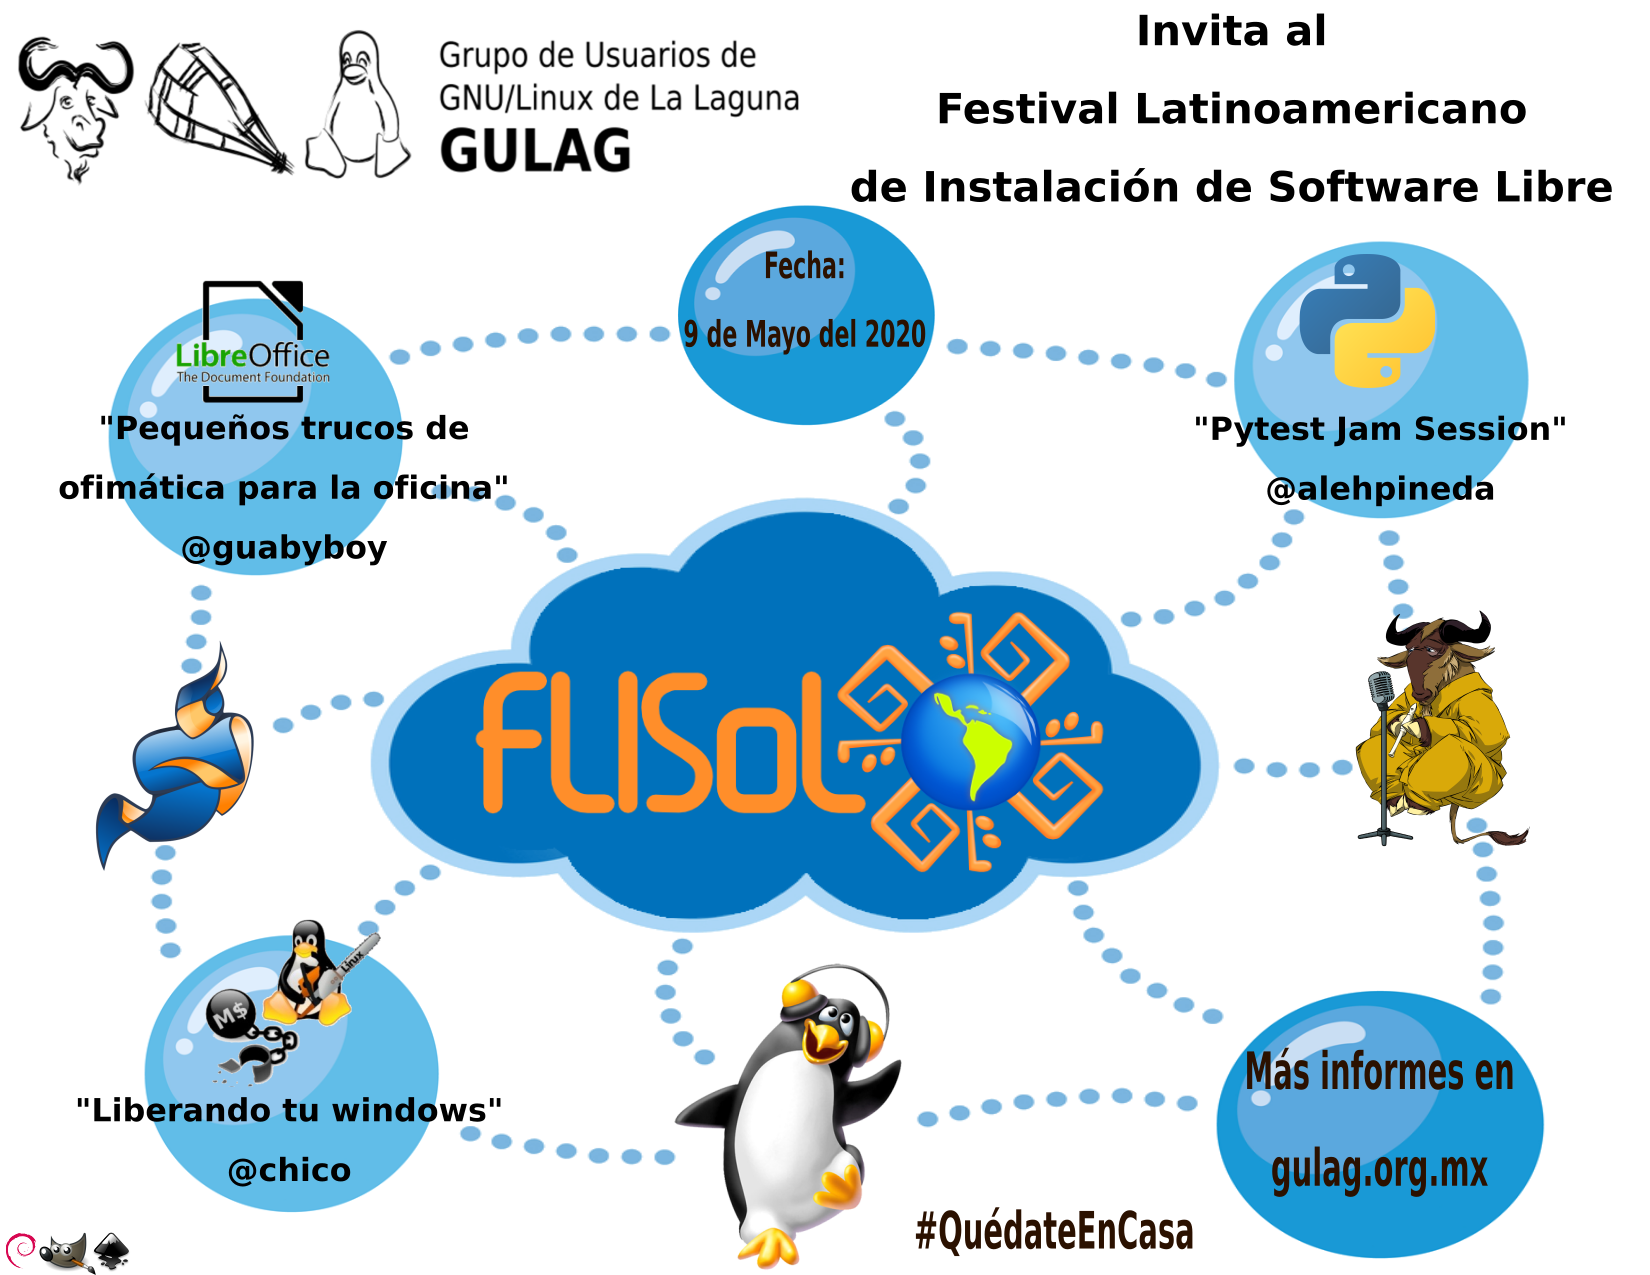
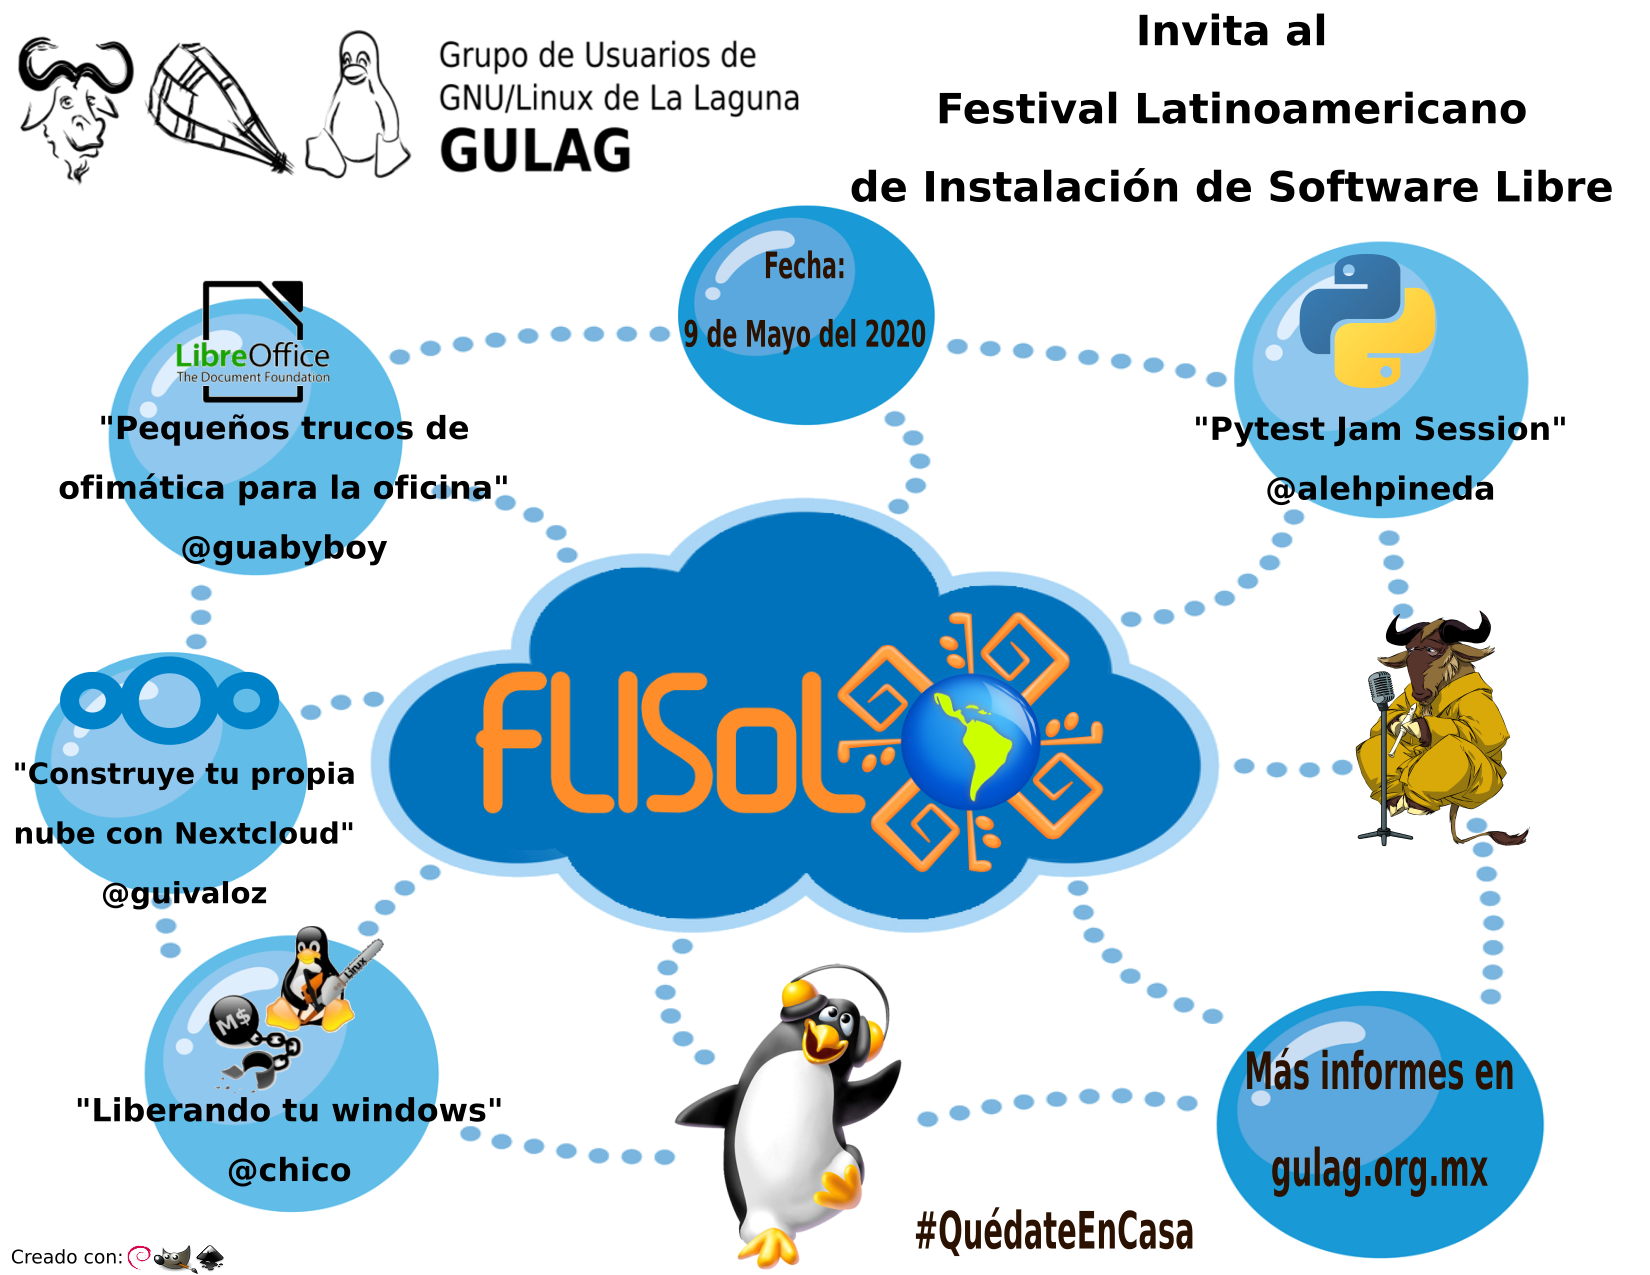
Se agregó la participación de Guillermo en el flisol.

Changed region(s): [[0.0, 0.4894, 0.2473, 0.8565], [0.0, 0.9482, 0.1545, 1.0]]

diff --git a/entradas/2020-05-03-flisol.html b/entradas/2020-05-03-flisol.html
@@ -102,6 +102,7 @@
   <li><strong>Liberando tu windows</strong> por Osvaldo Salazar.</li>
   <li><strong>Pequeños trucos de ofimática para la oficina</strong> por Gabriel Peña.</li>
   <li><strong>Pytest Jam Session</strong> por Alejandro Pineda.</li>
+  <li><strong>Construye tu propia nube con Nextcloud</strong> por Guillermo Valdés Lozano.</li>
 </ul>
 
 <h4 id="link-de-las-sesiones-prximamente">Link de las sesiones (Próximamente)</h4>
